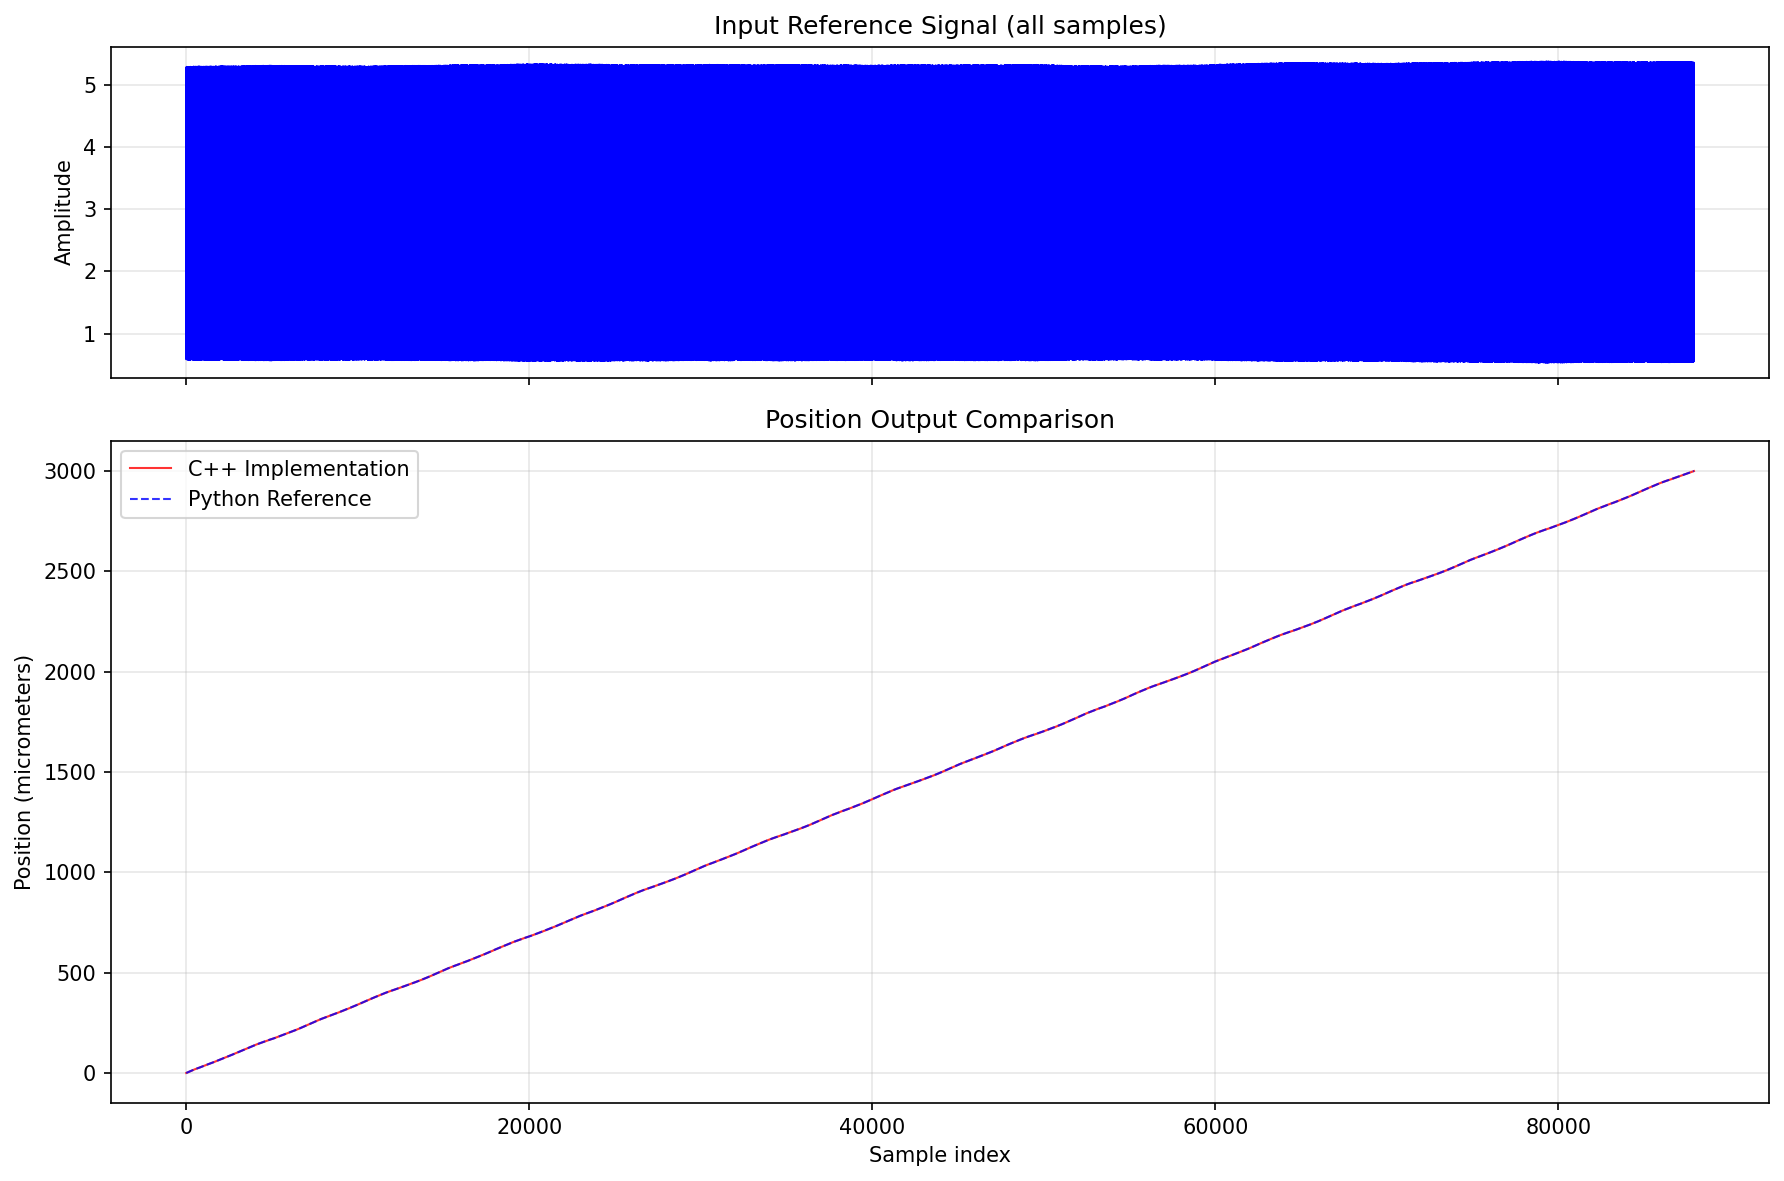
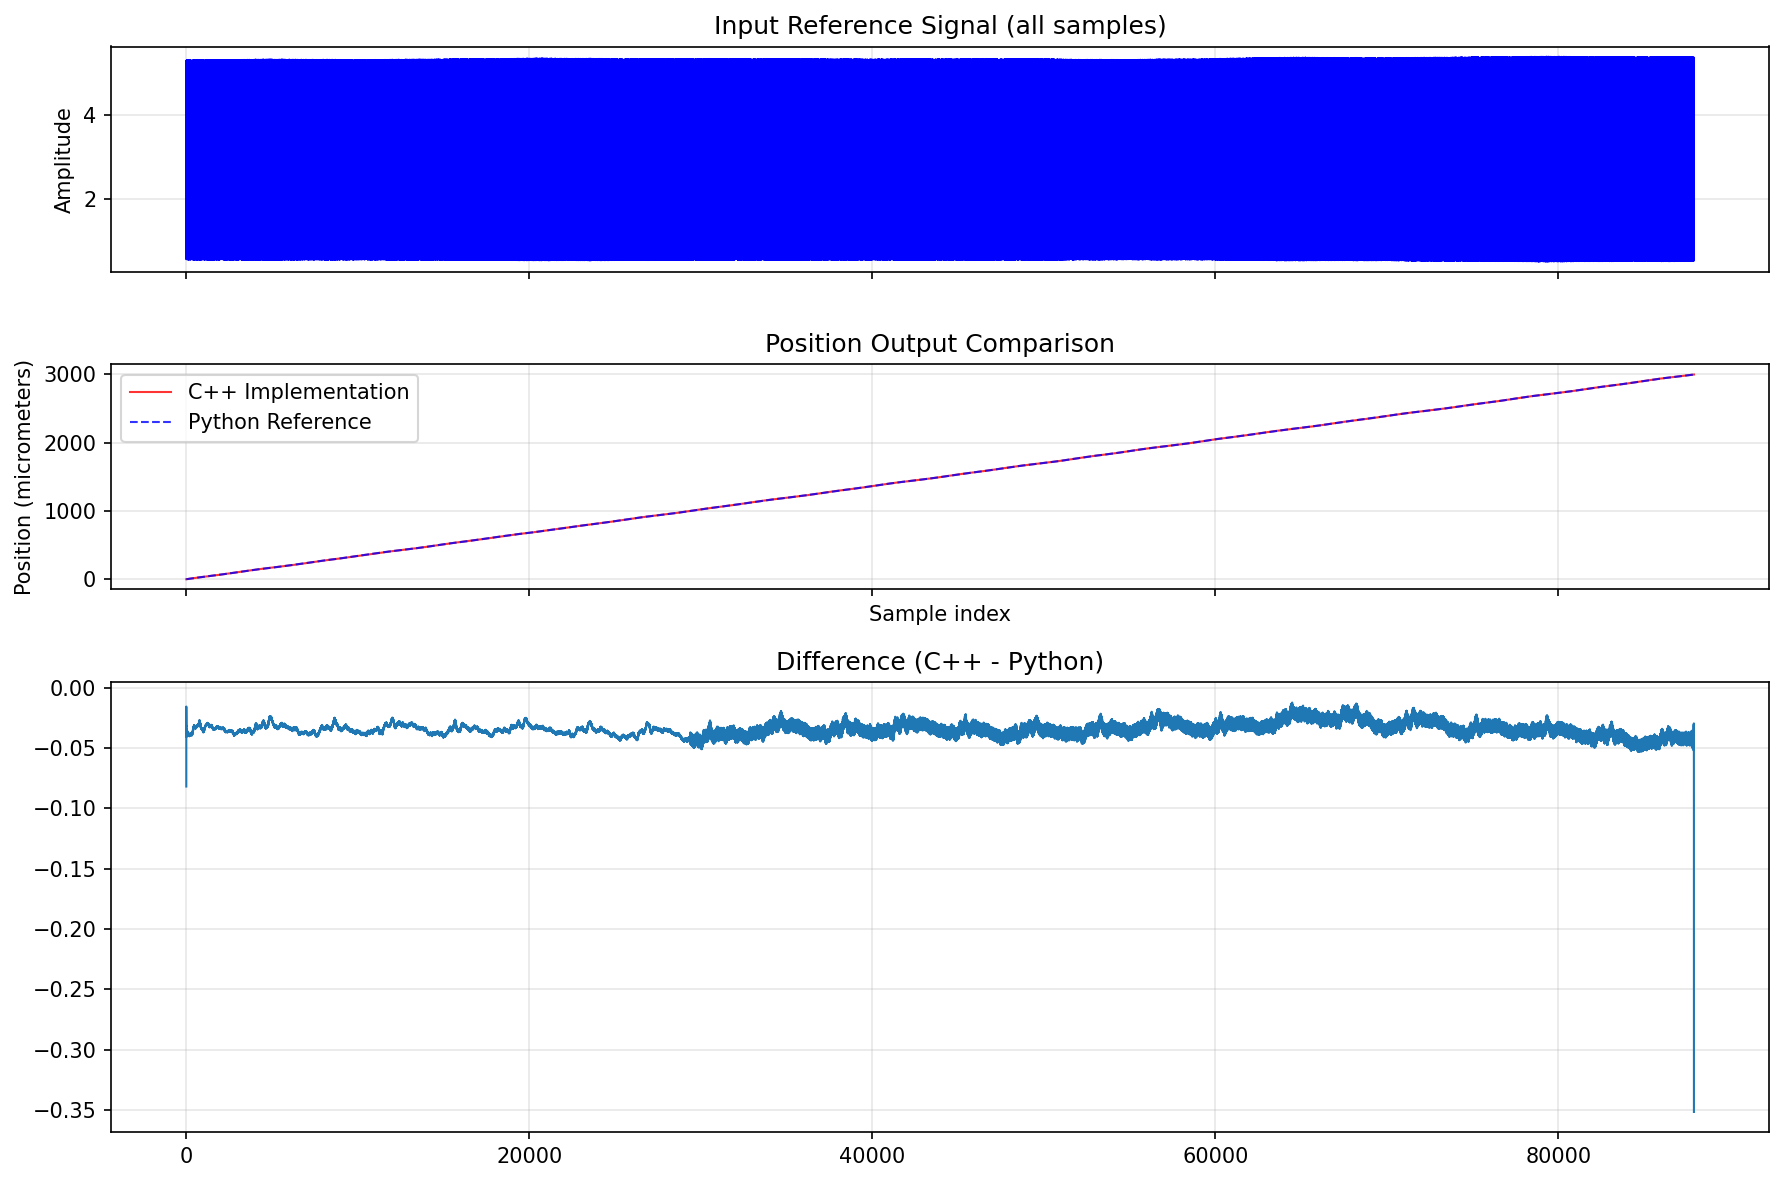
hilbert testing

diff --git a/spectral_toolbox.cpp b/spectral_toolbox.cpp
@@ -7,6 +7,7 @@
 #include <iostream>
 #include <numeric>
 #include <vector>
+#include <chrono>
 
 #define REAL 0
 #define IMAG 1
@@ -51,11 +52,14 @@ void SpectralToolbox::xAxisFromHilbert(const std::vector<float> &referenceSignal
     }
 
     // TODO: reuse plans and memory to improve exec time
+    // auto t1 = std::chrono::high_resolution_clock::now();                                   // deleteme
 
     // Allocate memory for FFTW
     fftw_complex* in = (fftw_complex*) fftw_malloc(sizeof(fftw_complex) * n);
     fftw_complex* out = (fftw_complex*) fftw_malloc(sizeof(fftw_complex) * n);
     fftw_complex* hilbert = (fftw_complex*) fftw_malloc(sizeof(fftw_complex) * n);
+
+    // auto t2 = std::chrono::high_resolution_clock::now();                                   // deleteme
 
     float ref_avg = std::accumulate(referenceSignal.begin(), referenceSignal.end(), 0.0) / referenceSignal.size();
 
@@ -68,6 +72,8 @@ void SpectralToolbox::xAxisFromHilbert(const std::vector<float> &referenceSignal
     // Compute FFT
     fftw_plan plan_forward = fftw_plan_dft_1d(n, in, hilbert, FFTW_FORWARD, FFTW_ESTIMATE);
     fftw_execute(plan_forward);
+
+    // auto t3 = std::chrono::high_resolution_clock::now();                                   // deleteme
 
     int hN  = n >> 1; // N/2
     int numRem = hN;
@@ -91,6 +97,8 @@ void SpectralToolbox::xAxisFromHilbert(const std::vector<float> &referenceSignal
     fftw_plan plan_inverse = fftw_plan_dft_1d(n, hilbert, out, FFTW_BACKWARD, FFTW_ESTIMATE);
     fftw_execute(plan_inverse);
 
+    // auto t4 = std::chrono::high_resolution_clock::now();                                   // deleteme
+
     // Compute phase difference without unwrapping througs complex division
     std::vector<double> diff(n-1);
     for(size_t i = 0; i < n - 1; i++) {
@@ -109,7 +117,20 @@ void SpectralToolbox::xAxisFromHilbert(const std::vector<float> &referenceSignal
                                (diff[i - 1] / (2.0f * static_cast<float>(M_PI))) * (refLaserWavelength / 2.0f);
     }
 
-    std::cout<<refLaserWavelength<<std::endl;
+    // std::cout<<refLaserWavelength<<std::endl;                                               // deleteme
+
+    // auto end = std::chrono::high_resolution_clock::now();                                   // deleteme
+    // auto duration1 = std::chrono::duration_cast<std::chrono::microseconds>(t2 - t1);     // deleteme
+    // auto duration2 = std::chrono::duration_cast<std::chrono::microseconds>(t3 - t2);     // deleteme
+    // auto duration3 = std::chrono::duration_cast<std::chrono::microseconds>(t4 - t3);     // deleteme
+    // auto duration4 = std::chrono::duration_cast<std::chrono::microseconds>(end - t4);     // deleteme
+    // auto duration5 = std::chrono::duration_cast<std::chrono::microseconds>(end - t1);     // deleteme
+    // std::cout << "Execution time: " << duration1.count() << " microseconds" << std::endl;    // deleteme
+    // std::cout << "Execution time: " << duration2.count() << " microseconds" << std::endl;    // deleteme
+    // std::cout << "Execution time: " << duration3.count() << " microseconds" << std::endl;    // deleteme
+    // std::cout << "Execution time: " << duration4.count() << " microseconds" << std::endl;    // deleteme
+    // std::cout << "Execution time: " << duration5.count() << " microseconds" << std::endl;    // deleteme
+
 
     // Clean up FFTW resources
     fftw_destroy_plan(plan_forward);

diff --git a/test_hilbert_comparison/comparison_scripts/simple_comparison.py b/test_hilbert_comparison/comparison_scripts/simple_comparison.py
@@ -43,8 +43,8 @@ def plot_simple_comparison(test_name):
     python_output = python_output[:min_length]
     
     # Create figure with vertically stacked subplots sharing X axis
-    fig, (ax1, ax2) = plt.subplots(2, 1, figsize=(12, 8), sharex=True, 
-                                   gridspec_kw={'height_ratios': [1, 2]})
+    fig, (ax1, ax2, ax3) = plt.subplots(3, 1, figsize=(12, 8), sharex=True, 
+                                   gridspec_kw={'height_ratios': [1, 1, 2]})
     
     # Plot 1: Input reference signal (top, smaller)
     ax1.plot(input_signal, 'b-', linewidth=1)
@@ -60,6 +60,10 @@ def plot_simple_comparison(test_name):
     ax2.set_ylabel("Position (micrometers)", fontsize=10)
     ax2.legend(fontsize=10)
     ax2.grid(True, alpha=0.3)
+
+    ax3.set_title("Difference (C++ - Python)", fontsize=12)
+    ax3.plot(cpp_output - python_output, linewidth=1)   
+    ax3.grid(True, alpha=0.3)
     
     # Adjust layout to prevent overlap
     plt.tight_layout()
